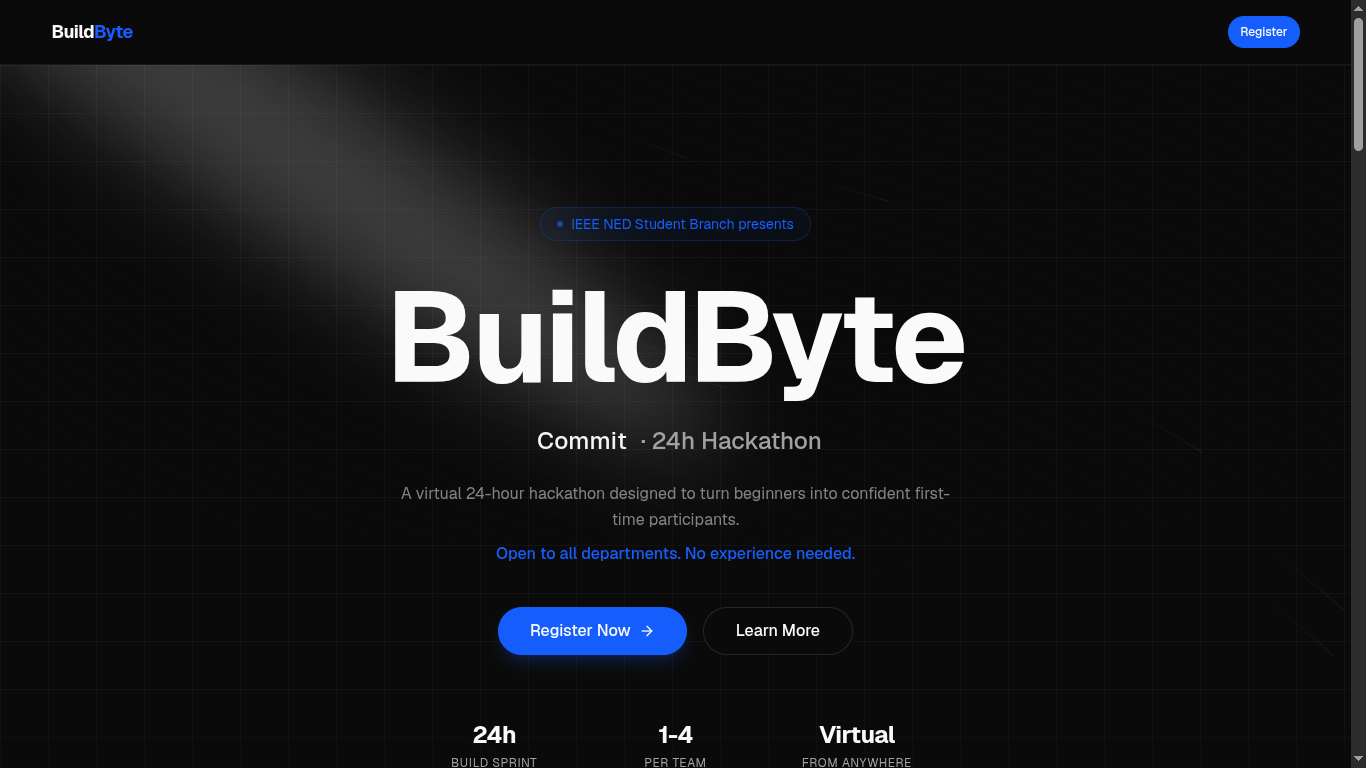
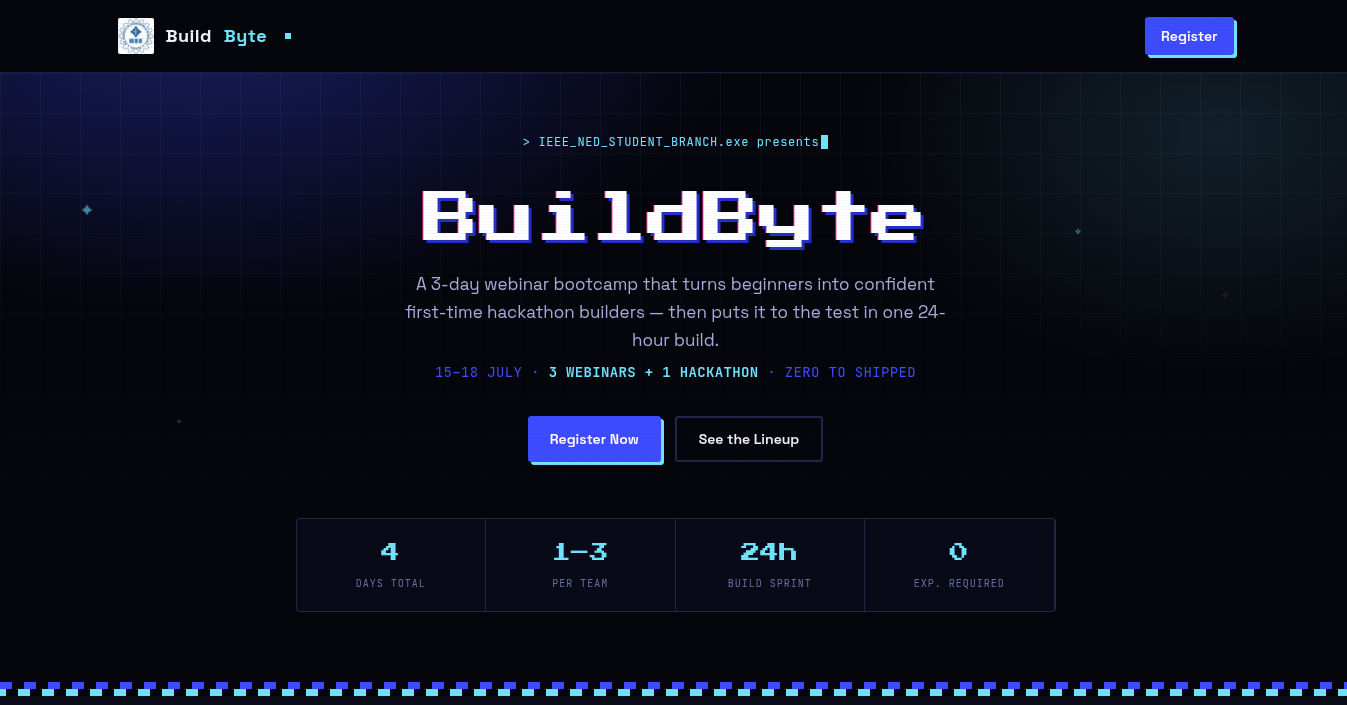
new og added

diff --git a/app/layout.tsx b/app/layout.tsx
@@ -15,7 +15,7 @@ const baseUrl = "https://buildbyte.vercel.app/"
 export const metadata: Metadata = {
   metadataBase: new URL(baseUrl),
   title: {
-    default: "BuildByte | 24h Hackathon by IEEE NED Student Branch",
+    default: "BuildByte | 3-day webinar + 24h Hackathon by IEEE NED Student Branch",
     template: "%s | BuildByte",
   },
   description: